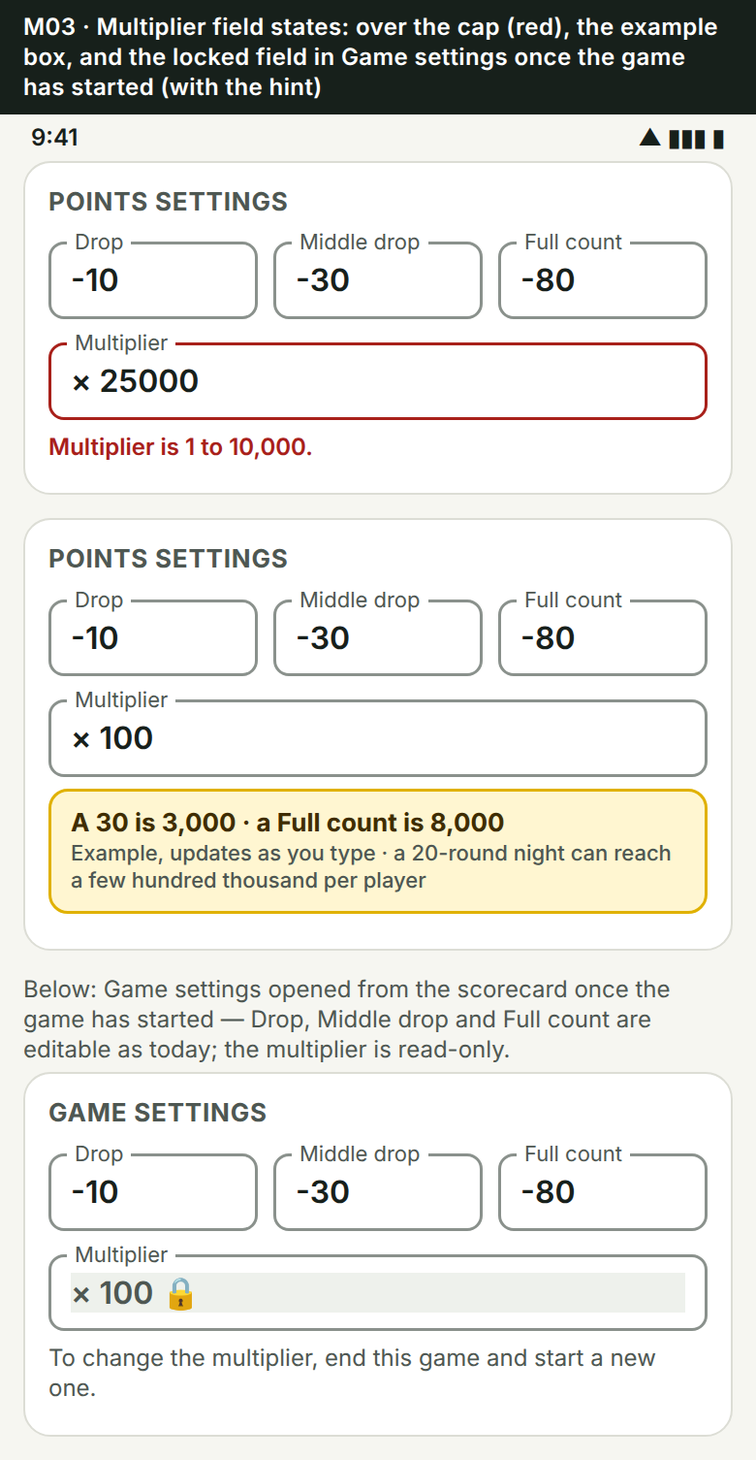
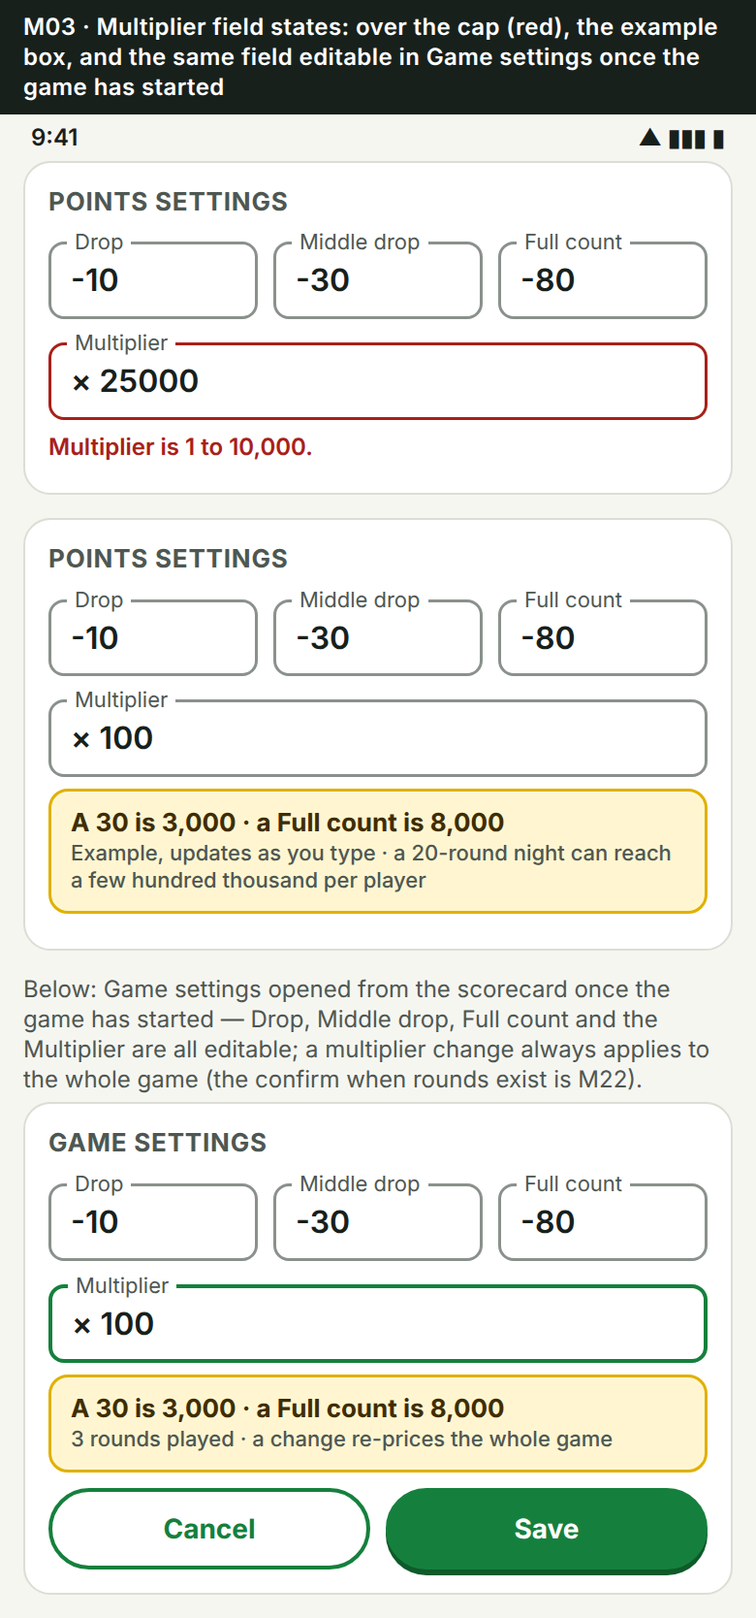
PR 14 spec: Sree's final Multiplier answer (Nov 15 12:35 AM PT) — changeable any time, always the whole game; confirm with Apply to whole game / Start a new game instead; settings_changed Log line; lock, hint and 043 lock trigger dropped; M01/M03/M11/M21 regenerated, M22 confirm mockup; Q14.25 withd

diff --git a/rummy-home3/docs/multiplier-design.md b/rummy-home3/docs/multiplier-design.md
@@ -1,10 +1,13 @@
 # Multiplier — design spec (PR 14, review first; nothing built yet)
 
-Status: **spec revised to Sree's answers of Nov 14, 10:27 PM PT** (which reverse the 8:58 PM answer on mid-game
-changes). No app code, no migration applied. Mockups: [`multiplier-mockups/`](multiplier-mockups/) (M01–M21, generated
-like the Pool set: 390 dp, light theme, caption strip on each). Section 6 records every question with the answer that now
-stands; one item is flagged for Sree (**Q14.25**, the exact moment the multiplier locks — this spec picks "at creation"
-and says why) and the build follows that unless he says otherwise. Section 9 says where the build sits in the queue.
+Status: **spec revised to Sree's FINAL answer of Nov 15, 12:35 AM PT**, which supersedes the Nov 14 10:27 PM "locked once
+the game starts" decision and Q14.25: the multiplier defaults to ×1 (app → user default → game, nothing to pick), **can
+be changed at any time, including mid-game, and a change always applies to the whole game, every round from round 1**;
+there is no per-round multiplier and no "from round N" option, ever. When rounds exist a confirm offers *Apply to whole
+game* / *Start a new game instead* / *Cancel*; the change is one `settings_changed` Log line. No app code, no migration
+applied. Mockups: [`multiplier-mockups/`](multiplier-mockups/) (M01–M22, generated like the Pool set: 390 dp, light theme,
+caption strip on each). Section 6 records every question with the answer that now stands; nothing is flagged for Sree.
+Section 9 says where the build sits in the queue.
 
 ## 0. Sree's requirements (Nov 14, 3:46 PM PT) and how this spec reads them
 
@@ -26,10 +29,10 @@ decision 1 overrides it: **Points only.**
 | # | Sree decided | Spec change |
 | --- | --- | --- |
 | D14.1 | Store entered (raw) points plus the multiplier. | As recommended (Q14.1). Unchanged. |
-| D14.2 | **Reversed at 10:27 PM: no mid-game changes.** "Once a game starts, it's done." The multiplier is set when the game is created and locked once it starts. | The 8:58 PM design (per-round multiplier, *Change multiplier* menu, *All rounds*, M22) is **dropped**. One value per game in `settings.multiplier`, read-only once the game has started; wherever the multiplier shows mid-game the hint reads **"To change the multiplier, end this game and start a new one."** (M01, M03, M11, M21, §3.7). The lock moment is "at creation" — flagged as **Q14.25**. |
+| D14.2 | **FINAL (Nov 15, 12:35 AM PT), superseding 10:27 PM's lock:** the multiplier **can be changed at any time, including mid-game; a change always applies to the whole game, every round from round 1.** No per-round multiplier and no "from round N", ever ("too complicated"). With rounds played, confirm first; log it with `settings_changed`. | One value per game in `settings.multiplier`, editable in Game settings like Drop / Middle drop / Full count (M03). When rounds exist, the confirm in **M22**: "3 rounds already played. The new multiplier will apply to the whole game, including those rounds. Or end this game and start a new one with the new multiplier." — *Apply to whole game* · *Start a new game instead* · *Cancel*. Since raw points plus the multiplier are stored, a change only recomputes what is displayed and what a later result saves (§3.7). The 8:58 PM per-round design and the 10:27 PM lock, hint and trigger are gone; Q14.25 is withdrawn. |
 | D14.2b | Why does Pool lock its limit / drops? Explain; recommend whether to drop it on the same principle. | **Decided (Q14.23 OK, 10:27 PM):** lock the pool *limit* only; Drop / Middle drop / Full count stay editable with a Log line. Built as migration **042** on PR 13, not here (§3.8). |
 | D14.3 | No presets; a digits-only field with "×"; keep the live example sentence, but make it obvious. | The example is a yellow box under the field ("A 30 is 3,000 · a Full count is 8,000"), not grey hint text (M01, M03). |
-| D14.4 | Everything starts at 1. Precedence: game setting › user default › app default 1. | §3.9 and M04 wording. |
+| D14.4 | Everything starts at 1. Precedence: game setting › user default › app default 1. Nov 15: the creator never has to pick a multiplier. | §3.9 and M04 wording; the New game field is prefilled and can be left alone (M01). |
 | D14.5 | Threshold / player count. 10:27 PM: "why does 13+ need anything different? With K/M a value is never more than about 5 characters including the sign, and 5 fit the standard layout." | He is right — **one rule everywhere, no 13+ special case** (§2.3, §3.2, M19): K from 10,000, M from 1,000,000, and never more than **5 characters including the sign**, which is exactly what the 38 dp column floor was sized for. Q14.24 dropped. |
 | D14.6 | Rounding: 3 significant digits, half away from zero — fine. | Unchanged. |
 | D14.7 | Exact-number viewing is confusing in words; show it. | **M21** walks through it: tap the `×N ⓘ` chip or any header total → the Exact points sheet; a table of the places that always print the exact number. The chip now carries an ⓘ so the tap is discoverable (§3.5). |
@@ -39,9 +42,10 @@ decision 1 overrides it: **Points only.**
 
 ## 1. The feature in one paragraph
 
-A Points game can carry a multiplier (×1 default, up to ×10,000). It is chosen on the New game screen (prefilled from the
-user's default) and **locked once the game starts** — to play at a different rate you end the game and start a new one.
-Admins keep typing the hand as points — 30 is typed as 30 — and the app shows, sums, shares and saves to Results
+A Points game can carry a multiplier (×1 default, up to ×10,000). It is prefilled on the New game screen from the user's
+default (the creator never has to pick one) and **can be changed at any time from Game settings — a change always
+applies to the whole game, every round from round 1**; with rounds already played the app confirms first and offers to
+start a new game instead. Admins keep typing the hand as points — 30 is typed as 30 — and the app shows, sums, shares and saves to Results
 30 × multiplier. The grid stores the entered points (so undo, edit round, the Log and the balance check are unchanged) and
 every reader multiplies by the game's one value. Large numbers are shortened on screen (−12K, 1.2M; never more than five
 characters including the sign, so they fit the same columns as today) and the exact number is one tap away (the `×N ⓘ`
@@ -69,7 +73,7 @@ design must not break on the extreme row.
 | Layer | Today | At ×10,000 | Verdict |
 | --- | --- | --- | --- |
 | `scores.value integer` (int4, ±2,147,483,647) | one hand, entered points | still entered points (D14.1) | **no change**. Even if multiplied values were stored, one hand is ≤ 800,000. |
-| `rounds` | round number, dealer, timestamps | unchanged | **no new column** — the multiplier is one value per game (D14.2 as revised), read from `games.settings`. |
+| `rounds` | round number, dealer, timestamps | unchanged | **no new column** — the multiplier is one value per game (D14.2 final), read from `games.settings`; a change rewrites that one key and nothing per round. |
 | Per-game totals in SQL (`sum(s.value)`) | Postgres `sum(int4)` returns `bigint` | `sum(s.value) * multiplier` as `bigint` | the **`::int` casts** on those sums in `declare_game_result` (`034` → `041` lines 926, 951, 1062) would raise `integer out of range` once a result passes 2,147,483,647 — only the extreme row, but it must not be able to crash a Save. **Migration 043**: cast to `bigint`, multiply inside SQL by the game's multiplier so results are correct whatever app build declared them (D14.9). Written, not applied. |
 | `results.places` jsonb, `games.settings` jsonb | numbers are `numeric` | fine | none |
 | JavaScript | `Number` | safe to 9×10¹⁵ | none |
@@ -103,8 +107,8 @@ layout therefore becomes block-of-N where N = 5, 4 or 3 is chosen from the wides
 
 ## 3. Display rules (mockups M19, M21)
 
-1. **Source of truth**: entered points per score, **one multiplier per game** (`settings.multiplier`, fixed once the game
-   starts). The *actual* value of a score is entered × the game's multiplier; a total is the sum of actual values,
+1. **Source of truth**: entered points per score, **one multiplier per game** (`settings.multiplier`, changeable at any
+   time, always for the whole game). The *actual* value of a score is entered × the game's multiplier; a total is the sum of actual values,
    computed where it is shown. Nothing is ever rounded before it is summed. **Everything that leaves the screen — Final
    scores, Results (including a combined result that mixes ×1, ×2 and ×5 games), shares, PDFs, the live page — is actual
    points, never raw** (D14.9).
@@ -121,33 +125,41 @@ layout therefore becomes block-of-N where N = 5, 4 or 3 is chosen from the wides
    compare exact integers. Short forms on screen may not visibly sum to 0 (+12.3K −6.17K −6.18K); the footer reads
    "Totals add to 0 (exact)" whenever any short form is on screen so nobody tries to add the K's.
 5. **Exact reveal** (D14.7, M21): the strip chip reads `×100 ⓘ`; tapping it, or tapping any header total, opens the
-   **Exact points** sheet (M11): one line per player, exact actual total, "entered 1,234 × 100" underneath, the hint "To
-   change the multiplier, end this game and start a new one.", "Totals add to 0", and a Share full details (PDF) button.
+   **Exact points** sheet (M11): one line per player, exact actual total, "entered 1,234 × 100" underneath, the line
+   "×100 applies to every round. Change it in Game settings — the whole game follows.", "Totals add to 0", and a Share
+   full details (PDF) button.
    The sheet also exists at ×1
    (then it is simply the totals as a list). Cells in the grid stay tap-free; the two visible targets (chip, totals) are
    enough and keep the grid as it is today (this settles Q14.17 at the smaller option).
 6. **View toggle** (M05–M10): "Actual points" switch in the scorecard strip; ON by default; remembered per phone (not per
    game) in AsyncStorage; OFF shows a yellow banner "Showing entered points. ×100 still applies — totals, Results and shares
    use the actual points." The toggle is hidden at ×1. The toggle never changes what is saved or shared.
-7. **Locked once the game starts** (D14.2 as revised, M01, M03): the multiplier is typed on the New game › Game type
-   screen and that is the only place it can be set. From the moment the game exists it is read-only: the Game settings
-   sheet shows it greyed with a lock and the hint **"To change the multiplier, end this game and start a new one."**; the
-   same hint sits in the Exact points sheet (M11, M21), which is where the `×N ⓘ` chip leads. There is no *Change
-   multiplier* menu item, no per-round rate, no "from round N", no Log line for a change, and the server refuses a
-   `settings.multiplier` change on an existing game (trigger in 043, like the Pool limit lock) so an older app build
-   cannot slip one through. **Why "at creation" rather than "at round 1"** (Q14.25): a game with no rounds yet has
-   nothing to re-price, so an edit window between Start and round 1 buys almost nothing — the New game screen is one
-   Back tap away — and it would need an edit field, a server check on `rounds` count and a Log line. Locking at creation
-   is simpler to build, simpler to explain ("set it when you start the game") and matches "once a game starts, it's
-   done". If Sree prefers the round-1 window, the trigger condition becomes "no rounds exist" and the Game settings
-   field un-greys until the first Save; everything else in this spec stays.
+7. **Changing the multiplier — any time, whole game** (D14.2 final, M03, M22). The multiplier is typed on New game ›
+   Game type (prefilled, usually left alone) and later edited in **Game settings** from the scorecard, next to Drop /
+   Middle drop / Full count — the same place, the same Save, admin-only as today. Rules:
+   - **No rounds yet**: Save just writes `settings.multiplier`; no confirm.
+   - **Rounds exist**: Save opens the confirm: *"N rounds already played. The new multiplier will apply to the whole game,
+     including those rounds. Or end this game and start a new one with the new multiplier."* with **Apply to whole game**
+     (primary), **Start a new game instead** (secondary: closes the sheet and goes to New game with these players and
+     settings prefilled and the new multiplier typed in; the current game is left as it is) and **Cancel**.
+   - **What a change does**: one jsonb key changes. Every reader already multiplies entered × the game's current
+     multiplier, so the grid, the header totals, the Exact sheet, Final scores and the live page re-price at once, every
+     round from round 1 — there is no per-round rate and never a mixed card. A result declared later uses the multiplier
+     at that moment (043 multiplies in SQL); a result already saved is a snapshot and is not touched (Q14.22).
+   - **Log**: one `settings_changed` line — "Settings changed · Multiplier ×10 → ×5 · applies to the whole game
+     (3 rounds re-priced)" — through the 036/042 trigger that already labels Drop / Middle drop / Full count / Pool
+     limit / Re-entries; only the label table grows (no new log kind). The Log keeps entered points (Q14.15).
+   - **Realtime / other phones**: the game row changes, every subscribed phone re-renders with the new value; a phone
+     mid-Add-round keeps its entered points (they are raw) and its "= actual" small line updates on the next render.
+   - **Server**: nothing refuses the change — Points has no lock trigger (the Pool limit lock in 042 stays Pool-only).
+     Validation (1–10,000, integer) runs in `games_settings_check` the same way as the other values.
 8. **The Pool lock, decided** (D14.2b, Q14.23 OK). In one sentence: *the pool limit decides who is out and what score a
    re-entering player starts at, so changing it after rounds are saved would contradict eliminations and re-entries
    already on the card — the lock stops that.* Drop, Middle drop and Full count only drive the keypad shortcuts, the
    "more than Full count?" confirm and the drops-left reading, so they stay editable with a Log line. This is built as
    migration **042** on PR 13 (`games_pool_settings_lock` locks only `poolLimit`; pgTAP 32/33), not in PR 14. The
-   multiplier is locked for the opposite reason — not because a change would break the card, but because Sree wants one
-   rate per game, full stop.
+   multiplier is **not** locked: a change cannot contradict anything on the card because nothing stored depends on it —
+   every stored number is entered points, and the multiplier is applied when a number is shown or saved to Results.
 9. **Defaults** (D14.4): everything starts at ×1. The value used by a game is the game's own `settings.multiplier`; the
    New game screen prefills it from the user's default (`profiles.default_settings.multiplier`); with no default it is 1.
    The game's value always wins once the game exists; changing the user default never touches existing games.
@@ -156,14 +168,14 @@ layout therefore becomes block-of-N where N = 5, 4 or 3 is chosen from the wides
 
 | # | File | Shows |
 | --- | --- | --- |
-| M01 | `M01-game-type-points-multiplier.png` | New game › Game type, Points: Multiplier field under Drop / Middle drop / Full count, "× 10" typed, the yellow example box, "Set it now — once the game starts the multiplier is locked" |
+| M01 | `M01-game-type-points-multiplier.png` | New game › Game type, Points: Multiplier field under Drop / Middle drop / Full count, "× 10" typed, the yellow example box, "×1 unless you change it — changeable later for the whole game" |
 | M02 | `M02-game-type-pool-no-multiplier.png` | Same screen with Pool: no Multiplier row |
-| M03 | `M03-multiplier-field-states.png` | Over the cap (red "1 to 10,000"), the example box at ×100, and Game settings once the game has started: Drop / Middle drop / Full count editable, Multiplier greyed with a lock and the hint "To change the multiplier, end this game and start a new one." |
+| M03 | `M03-multiplier-field-states.png` | Over the cap (red "1 to 10,000"), the example box at ×100, and Game settings once the game has started: Drop / Middle drop / Full count **and the Multiplier** all editable, the example box noting "3 rounds played · a change re-prices the whole game" |
 | M04 | `M04-settings-default-multiplier.png` | Settings: Multiplier default inside Points defaults; precedence wording; Pool block unchanged |
 | M05 / M06 | `M05-scorecard-2x-actual.png`, `M06-scorecard-2x-entered.png` | 4 players at ×2, toggle on / off (banner); chip `×2 ⓘ` |
 | M07 / M08 | `M07-scorecard-100x-actual.png`, `M08-scorecard-100x-entered.png` | 7 players at ×100: cells −1,000 … totals 12.4K; off = a ×1-looking table |
 | M09 / M10 | `M09-scorecard-10000x-20p-actual.png`, `M10-scorecard-10000x-20p-entered.png` | 20 players at ×10,000 on 38 dp columns: −800K cells, ±M totals — the same ≤ 5-character rule as 4 players, nothing special for 13+; off = entered |
-| M11 | `M11-exact-points-sheet.png` | The Exact points sheet, with the "end this game and start a new one" hint |
+| M11 | `M11-exact-points-sheet.png` | The Exact points sheet, with the line "×10,000 applies to every round. Change it in Game settings — the whole game follows." |
 | M12 | `M12-add-round-100x.png` | Add round at ×100: entered big, "= −3,000" small, Balance in entered points |
 | M13 | `M13-add-round-10000x-confirm.png` | The one confirm left, now also stating the actual points |
 | M14 | `M14-final-scores-10000x.png` | Final scores at ×10,000: exact card in one column, K/M round grid with the toggle |
@@ -173,34 +185,38 @@ layout therefore becomes block-of-N where N = 5, 4 or 3 is chosen from the wides
 | M18 | `M18-home-card-live-link-log.png` | Home card chip, live web page, Log at a multiplied game |
 | M19 | `M19-rounding-and-red-total-rule.png` | The one rule (K from 10,000, M from a million, ≤ 5 characters), rounding and the red non-zero-total rule worked through |
 | M20 | `M20-impact-1000x-10000x.png` | Impact table (section 2) as one picture |
-| M21 | `M21-exact-numbers-how-to-see-them.png` | A: the two taps (chip ⓘ, any total, highlighted) · B: the sheet that opens (with the hint) · C: the places that always print the exact number |
+| M21 | `M21-exact-numbers-how-to-see-them.png` | A: the two taps (chip ⓘ, any total, highlighted) · B: the sheet that opens · C: the places that always print the exact number |
+| M22 | `M22-change-multiplier-whole-game-confirm.png` | A: Game settings with ×5 typed over ×10 after 3 rounds → the confirm "3 rounds already played …" with Apply to whole game / Start a new game instead / Cancel · B: after Apply — every round at ×5, blue banner, one Log line · C: the rule (stored, re-priced, Results, never, Log) |
 
-M22 (changing the multiplier mid-game) was removed on Nov 15 after the 10:27 PM answer; `git log` on
-`docs/multiplier-mockups/` has it if the idea ever comes back.
+The Nov 14 8:58 PM M22 (per-round rates, "From round N") and the Nov 15 lock-and-hint mockups are replaced; `git log` on
+`docs/multiplier-mockups/` has both if ever needed.
 
 ## 5. Data (to be written in the build PR, not here)
 
 - `games.settings.multiplier` (jsonb key, integer 1–10,000, absent = 1) — the game's one multiplier, written by
-  `create_game` only. Profile defaults: `default_settings.multiplier`.
-- No `rounds` column, no RPC, no new log kind.
-- Migration **043** (numbered after PR 13's 042): `declare_game_result` / `result_places_json` / `public_result` sums as
-  `bigint` of `sum(value) × multiplier` (so a result is right even when declared from an older app build — D14.9);
-  `public_scorecard` returns the multiplier for the live page; a `games` trigger refuses a change to
-  `settings.multiplier` once the game exists (message: "The multiplier is set when a game starts. To change it, end this
-  game and start a new one."). Rollback restores the 042 bodies. pgTAP file 34. Written, tested locally, **not applied**.
+  `create_game` and by the existing settings update path (admin-only, same as Drop / Middle drop / Full count). Profile
+  defaults: `default_settings.multiplier`.
+- No `rounds` column, no RPC, no new log kind, **no lock trigger**.
+- Migration **043** (numbered after PR 13's 042, now applied): `declare_game_result` / `result_places_json` /
+  `public_result` sums as `bigint` of `sum(value) × multiplier` (so a result is right even when declared from an older
+  app build — D14.9); `public_scorecard` returns the multiplier for the live page; the settings-change Log labeller
+  (036/042) gains the "Multiplier" label so the `settings_changed` line reads "Multiplier ×10 → ×5"; `games_settings_check`
+  validates 1–10,000. Rollback restores the 042 bodies. pgTAP file 34. To be written with the build, **not applied**.
+  (The 10:27 PM draft had a trigger refusing a `settings.multiplier` change on an existing game — removed.)
 - App: `utils/multiplier.ts` (`actual(value, m)`, `shortNumber(v)`, `exactLines(game)`), `pointsGameMultiplier(game)`;
-  `GameSettings.multiplier?`; `RulesForm` field + example box (editable on New game only; greyed with the lock hint in Game
-  settings); `Settings` default; scorecard strip chip + toggle + Exact sheet; `ScoreCell` small line; `finalScoresSheet`
+  `GameSettings.multiplier?`; `RulesForm` field + example box (New game and Game settings alike; the whole-game confirm when rounds
+  exist, with *Start a new game instead* routing to New game prefilled); `Settings` default; scorecard strip chip + toggle + Exact sheet; `ScoreCell` small line; `finalScoresSheet`
   one-column rule; `shareImage` one-column rule; `shareResultsPdf` block-width rule; `results` K/M in the table, `×N`
   headers; `public/scorecard.html` (+ `web/` mirror) K/M + title + Exact list; Help bullets.
 
 ## 6. Questions and where each one stands
 
-Decided by Sree (D) or by his "go ahead with your recommendations" (R). Still flagged: **Q14.25** only.
+Decided by Sree (D) or by his "go ahead with your recommendations" (R). Nothing is flagged.
 
 - **Q14.1 Store entered or multiplied points?** **D: entered**, one multiplier on the game.
-- **Q14.2 Lock the multiplier after the first round?** **D (10:27 PM, reversing 8:58 PM): locked — no mid-game changes.**
-  Set at creation; see §3.7 and Q14.25 for the exact moment.
+- **Q14.2 Lock the multiplier after the first round?** **D (FINAL, Nov 15 12:35 AM PT): no lock.** Changeable at any
+  time, always for the whole game from round 1; never per round, never "from round N"; confirm when rounds exist; one
+  `settings_changed` Log line (§3.7, M22).
 - **Q14.3 Presets?** **D: no presets**: a plain digits field with a leading "×", prefilled from Settings; the example
   under it is a visible yellow box ("A 30 is 3,000 · a Full count is 8,000") that updates as the number is typed.
 - **Q14.4 Threshold for short forms?** **D: one rule** — K from 10,000, M from 1,000,000, never more than 5 characters
@@ -220,36 +236,34 @@ Decided by Sree (D) or by his "go ahead with your recommendations" (R). Still fl
 - **Q14.13 Cap and validation?** **R**: integer 1–10,000, digits only, empty or 0 → 1, leading zeros stripped, red hint
   "Multiplier is 1 to 10,000." Nothing above 10,000 even with a confirm.
 - **Q14.14 Live web page?** **R**: same K/M rule; exact on hover/tap (`title`); "Exact points" list under the table.
-- **Q14.15 Log?** **R**: the Log keeps entered points, with the `×N` chip at the top. No "Multiplier changed" line —
-  there is no change.
+- **Q14.15 Log?** **R**: the Log keeps entered points, with the `×N` chip at the top. A change is one `settings_changed`
+  line "Multiplier ×10 → ×5 · applies to the whole game (N rounds re-priced)" (D14.2 final).
 - **Q14.16 Games created before PR 14?** **R**: no multiplier key → ×1; nothing to backfill.
 - **Q14.17 Tap targets in the grid.** **R, smaller option**: only the chip and the header totals open the sheet; cells
   stay tap-free (M21).
 - **Q14.18 Older app builds (APK 9/10) opening a ×100 game?** **R**: they show entered points with no chip; 043 makes the
   server compute results right regardless of the build. Order 043 before the APK that carries PR 14.
 - **Q14.19 Help and Tutorial text.** **R**: PR 11 / PR 12 get four bullets: type points, the app multiplies; K/M and the
-  Exact sheet; the toggle changes only the view; the multiplier is set when the game starts — to change it, end this game
-  and start a new one.
+  Exact sheet; the toggle changes only the view; the multiplier can be changed in Game settings and always applies to the
+  whole game.
 - **Q14.20 The toggle wording.** **R**: "Actual points / Entered points".
 - **Q14.21 Pool games — truly never?** **R**: never, including the awards screen.
-- **Q14.22 Withdrawn.** It asked how past rounds behave after a mid-game change; there are no mid-game changes (D14.2 as
-  revised).
+- **Q14.22 Past rounds after a mid-game change?** **D (final)**: they are re-priced too — the whole game, always. A
+  result already saved to Results is a snapshot and stays as it was; a result declared after the change uses the new
+  value (043 multiplies in SQL at declare time).
 - **Q14.23 Decided (OK, 10:27 PM).** Pool lock on the **limit** only; Drop, Middle drop and Full count editable with a Log
   line. Built as migration 042 on PR 13 (§3.8).
 - **Q14.24 Dropped.** 13–20 players need nothing different: with K/M no value is longer than five characters including
   the sign, which is what the 38 dp column floor already holds. Nightly X14-9 still runs the 20-player grid as a plain
   regression check.
-- **Q14.25 (flagged, confirm only) When exactly does the multiplier lock?** This spec says **at creation**: it is typed on
-  the New game screen and read-only from the moment the game exists (§3.7). The alternative, "editable until the first
-  round is saved", needs an edit field in Game settings, a server check on the rounds count and a Log line for a window
-  that is one Back tap wide. Say the word and the window is added; nothing else changes.
+- **Q14.25 Withdrawn (Nov 15).** It asked when the multiplier locks; it never does.
 
 ## 7. Expert suggestions (not required by Sree; cheap if taken now)
 
 1. **The example box** under the field ("A 30 is 3,000 · a Full count is 8,000") — now part of the spec (D14.3).
-2. **Confirm when the multiplier is ≥ 1,000 on Start** ("Start game at ×1,000? A Full count is 80,000 points. The
-   multiplier can't be changed once the game starts.") — one dialog, because the digits field accepts 1000 and 10000 as
-   easily as 10, and because the value is final. Not a "high number warning" on scores.
+2. **Confirm when the multiplier is ≥ 1,000 on Start or Save** ("×1,000? A Full count is 80,000 points.") — one dialog,
+   because the digits field accepts 1000 and 10000 as easily as 10. Cheap insurance against a stray zero; it can be undone
+   from Game settings anyway. Not a "high number warning" on scores.
 3. **Share and PDF sub-line** always carry "×N · exact points" so a screenshot of the picture is never misread.
 4. **Exact sheet at ×1** doubles as a plain "totals as a list" view — useful on the 20-player grid already.
 5. **Unit test the formatter against a CSV** (value, expected) the same way initials are tested, and a property test
@@ -268,11 +282,12 @@ Decided by Sree (D) or by his "go ahead with your recommendations" (R). Still fl
 | X14-4 | U | Final scores sheet: two columns to 7 digits, one column from 8; exact text; share image never calls `shortNumber`; PDF block width 5/4/3 from the widest value; sub-lines carry "×N · exact points" |
 | X14-5 | U | Results: per-game multiplied contributions, `×N` headers only when > 1, Winners exact, table K/M; mixed-multiplier fixture (×1, ×2, ×5 games in one result) |
 | X14-6 | U | Toggle: default ON, persisted per phone, hidden at ×1; banner text when OFF; nothing saved or shared changes |
-| X14-7 | D | 043 pgTAP: `declare_game_result` on a ×10,000 game of 6 extreme nights saves 2,280,000,000 without error; multiplier applied in SQL from `settings`; a `settings.multiplier` change on an existing game is refused with the lock message while Drop / Middle drop / Full count still change; absent key reads as 1; rollback replay |
+| X14-7 | D | 043 pgTAP: `declare_game_result` on a ×10,000 game of 6 extreme nights saves 2,280,000,000 without error; multiplier applied in SQL from `settings` at declare time; a `settings.multiplier` change on a game with rounds is accepted and writes one `settings_changed` row labelled "Multiplier ×10 → ×5"; a saved result does not change after the game's multiplier changes; out-of-range refused; absent key reads as 1; rollback replay |
 | X14-8 | S | Smoke: New game Points ×100 → scorecard chip and toggle → Add round with "= −3,000" lines → tap chip → Exact sheet → Complete → Final scores exact → Results `×100` header (screenshots) |
 | X14-9 | N | Nightly: 20 players at ×10,000 portrait and landscape (every cell ≤ 5 characters, no clipping, same layout as 4 players), share image one column, PDF 4-column blocks |
-| X14-10 | S | Smoke: on a started game, Game settings shows the multiplier greyed with the hint; Drop / Middle drop / Full count still save; a direct `settings.multiplier` update is refused by the server |
-| X14-11 | M | Emulator pass of every M-screen in this spec (M01–M21) |
+| X14-10 | S | Smoke: on a started game with 3 rounds, Game settings → Multiplier ×10 → ×5 → Save → the confirm text names 3 rounds → Cancel leaves ×10; Save → Apply to whole game → every cell and total re-priced, chip ×5, Log line; Start a new game instead lands on New game with the players and ×5 prefilled; with no rounds Save needs no confirm |
+| X14-12 | U | Confirm gating: 0 rounds → no dialog; N ≥ 1 → dialog text with N; the three actions; `Start a new game instead` payload (players, settings, new multiplier) |
+| X14-11 | M | Emulator pass of every M-screen in this spec (M01–M22) |
 
 ## 9. Place in the sequence, and how big the build is
 
@@ -280,13 +295,14 @@ PR 14 (build) stacks on PR 13 (#32). Migration 043 after 042 (PR 13's pool re-en
 Tutorial (PR 12) text land after PR 14's wording is final (Q14.19 / Q14.20). Sree called this important before going
 live; nothing in it blocks PR 13.
 
-**Size, honestly:** smaller than the 8:58 PM version, because the reversal removes the per-round column, the RPC, the
-menu item, the dialog, the rate marks and the Log kind. What is left: one migration that rewrites three result functions'
-sums and adds a lock trigger; a formatter module with CSV tests; and edits across eleven app surfaces (Game type form,
-Game settings read-only field + hint, Settings default, scorecard strip / header / cells / Exact sheet, Add round cell line
-and confirm text, Final scores sheet, share image, PDF, Results page, live web page, Help). Roughly PR 10a-sized. Per Q16.16
+**Size, honestly:** about the same as the locked version. The final answer removes the lock trigger and the hint and
+adds one confirm dialog and a Log label; nothing per round, no RPC, no rate marks. What is left: one migration that
+rewrites three result functions' sums and adds a label; a formatter module with CSV tests; and edits across eleven app
+surfaces (Game type form, Game settings field + confirm, Settings default, scorecard strip / header / cells / Exact
+sheet, Add round cell line and confirm text, Final scores sheet, share image, PDF, Results page, live web page, Help). Roughly PR 10a-sized. Per Q16.16
 it **waits behind PR 17 test infra**. If Sree wants part of it sooner, the clean cut is **slice A — the in-game part**:
-migration 043, the Game type field and Settings default, the scorecard chip / toggle / Exact sheet, the Add round line,
+migration 043, the Game type and Game settings field with the whole-game confirm, the Settings default, the scorecard
+chip / toggle / Exact sheet, the Add round line,
 and Results *saved* multiplied in SQL (so nothing is ever saved raw) — leaving **slice B** (K/M in the Results table, `×N`
 headers, share image and PDF column rules, live page, Help text) for right after. Slice A is coherent on its own and is
 roughly half the work; the recommendation is still to queue the whole PR 14 build after PR 17 unless Sree says otherwise.

diff --git a/rummy-home3/docs/testing-strategy.md b/rummy-home3/docs/testing-strategy.md
@@ -238,11 +238,12 @@ Pass when Home has New game, Results, and Recent, and none of Settle, Active, Hi
 | X14-4 | U | same | Final scores / share: two columns to 7 digits, one from 8, never short; PDF blocks 5 / 4 / 3 from the widest value |
 | X14-5 | U | same | Results: per-game multiplied contributions, `×N` header only when > 1, Winners exact, table K/M (mixed fixture) |
 | X14-6 | U | same | Toggle default ON, per phone, hidden at ×1, banner when OFF; saved / shared data unchanged |
-| X14-7 | D | `supabase/tests/34_multiplier_043.sql` (to write) | 043: result sums as bigint (2,280,000,000 saves), multiplier applied in SQL from `settings`, a `settings.multiplier` change on an existing game refused with the lock message while Drop / Middle drop / Full count still change, absent key → 1, rollback replay |
+| X14-7 | D | `supabase/tests/34_multiplier_043.sql` (to write) | 043: result sums as bigint (2,280,000,000 saves), multiplier applied in SQL from `settings` at declare time, a `settings.multiplier` change on a game with rounds accepted and logged as one `settings_changed` row "Multiplier ×10 → ×5", a saved result unchanged after the game's multiplier changes, out-of-range refused, absent key → 1, rollback replay |
 | X14-8 | S | `smoke/17-multiplier.yaml` (to write) | ×100 game end to end: chip, toggle, "= −3,000" lines, Exact sheet, Final scores exact, Results `×100` |
 | X14-9 | N | `full/50-multiplier-20p.yaml` (to write) | 20 players at ×10,000 portrait + landscape (every cell ≤ 5 characters, no clipping, same layout as 4 players), share one column, PDF 4-column blocks |
-| X14-10 | S | `smoke/18-multiplier-locked.yaml` (to write) | On a started game, Game settings shows the multiplier greyed with "To change the multiplier, end this game and start a new one."; Drop / Middle drop / Full count still save; a direct `settings.multiplier` update is refused by the server |
-| X14-11 | M | emulator | every M-screen of the spec (M01–M21) |
+| X14-10 | S | `smoke/18-multiplier-change.yaml` (to write) | On a game with 3 rounds: Game settings → ×10 → ×5 → Save → confirm names 3 rounds → Cancel keeps ×10; Save → Apply to whole game → every cell / total re-priced, chip ×5, Log line; Start a new game instead → New game prefilled with the players and ×5; no rounds → no confirm |
+| X14-12 | U | `tests/multiplier.test.ts` (to write) | Confirm gating: 0 rounds → no dialog; N ≥ 1 → text with N; three actions; the Start-a-new-game payload (players, settings, new multiplier) |
+| X14-11 | M | emulator | every M-screen of the spec (M01–M22) |
 
 ## PR 13 test cases (Pool: two-screen New game, pool scorecard, Add round, re-entry, Complete → Award → Result; migrations 041 applied Nov 14 and 042 re-entries setting + limit-only lock applied Nov 15)
 

diff --git a/rummy-home3/docs/multiplier-mockups/README.md b/rummy-home3/docs/multiplier-mockups/README.md
@@ -1,13 +1,15 @@
-# Multiplier — design mockups M01–M21 (PR 14, review set, revised Nov 15 after Sree's Nov 14 10:27 PM PT answers)
+# Multiplier — design mockups M01–M22 (PR 14, review set, revised Nov 15 to Sree's FINAL 12:35 AM PT answer)
 
 Flat copy of the generated set, embedded in [`../multiplier-design.md`](../multiplier-design.md) section 4. 390 dp, light theme,
 same style as the Pool set; each PNG has a caption strip. Sample games: S14 (4 players, ×2), S15 (7 players, ×100), S16 (20 players,
 14 rounds, ×10,000; Full count 80). The generator lives outside the repo.
 
-Revision notes (Nov 14 10:27 PM PT answers): the multiplier is set on the New game screen and locked once the game starts — M01 says so,
-M03 shows the read-only field in Game settings with the hint "To change the multiplier, end this game and start a new one.", and the
-Exact points sheet (M11, M21) repeats the hint. M22 (changing the multiplier mid-game) is gone. One K/M rule on every grid, no 13+
-special case: no value is longer than 5 characters including the sign (M09, M10, M19).
+Revision notes (Nov 15 12:35 AM PT, final): the multiplier defaults to ×1 and is prefilled — the creator never has to pick it (M01). It can be
+changed at any time from Game settings, and a change always applies to the whole game, every round from round 1 — M03 shows the field editable
+mid-game, M22 the confirm when rounds exist ("3 rounds already played …" — Apply to whole game / Start a new game instead / Cancel), the
+re-priced card and the one settings_changed Log line. The earlier lock + "end this game and start a new one" hint (M03, M11, M21) is gone; so is
+the per-round / "from round N" M22 of Nov 14. One K/M rule on every grid, no 13+ special case: no value is longer than 5 characters
+including the sign (M09, M10, M19).
 
 ## M01
 
@@ -92,3 +94,7 @@ special case: no value is longer than 5 characters including the sign (M09, M10,
 ## M21
 
 ![M21-exact-numbers-how-to-see-them.png](M21-exact-numbers-how-to-see-them.png)
+
+## M22
+
+![M22-change-multiplier-whole-game-confirm.png](M22-change-multiplier-whole-game-confirm.png)
